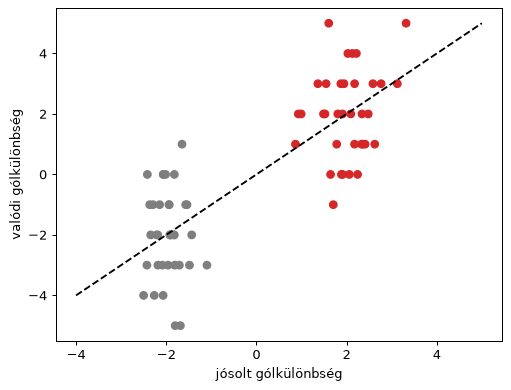
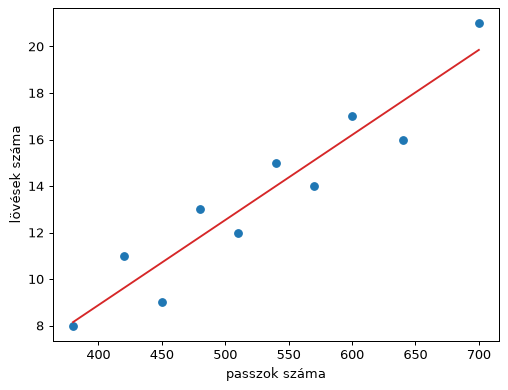
Add clustering_Cw reference values, new regression section
- FELADAT.md: expected clustering_Cw (7.054 +/- 1.591 Barcelona, 2.702 +/- 0.780 rivals)
- PYTHON_VIZ.md: replace match-outcome regression with a mock example and a
  real passes-received example; remove the ideas section

diff --git a/PYTHON_VIZ.md b/PYTHON_VIZ.md
@@ -336,67 +336,96 @@ goal_diff          0.786431       0.710102  0.891549   1.000000
 
 ![ábra](figs/12.png)
 
-## 6. Regresszió: megjósolható-e az eredmény?
+## 6. Regresszió: jóslás a többi adatból
 
-A korreláció azt mondja meg, hogy két mennyiség együtt mozog-e. A regresszió modellt illeszt: a mérőszámokból **megjósolja** a gólkülönbséget. Egy modellt csak olyan adaton szabad kiértékelni, amelyet nem látott, ezért **keresztvalidációt** használunk: a meccseket 5 részre osztjuk, 4 részen tanítunk, az ötödiken tesztelünk, és ezt mind az 5 részre megismételjük. Az `R²` 1 körüli, ha a jóslat jó, 0 körüli, ha nem jobb az átlagnál, és negatív, ha rosszabb.
+A regresszió egyenest (vagy síkot) illeszt az adatokra, és ebből **megjósolja** az egyik mennyiséget a többiből. Először egy kitalált példán nézzük meg, hogyan működik, utána valódi adaton.
+
+### Kitalált példa
+
+Tíz kitalált meccs: hány passz volt, és hány lövés született. Az egyenes: `lövés ≈ meredekség · passz + tengelymetszet`.
 
 ```python
 from sklearn.linear_model import LinearRegression
-from sklearn.model_selection import KFold, cross_val_score, cross_val_predict
-from sklearn.pipeline import make_pipeline
-from sklearn.preprocessing import StandardScaler
+from sklearn.metrics import r2_score
 
-rows = []
-for (mid, team), p in passes.groupby(["match_id", "team"]):          # egy sor = egy csapat egy meccsen
-    w = p.groupby(["player_1", "player_2"]).size().rename("weight").reset_index()
-    G = nx.from_pandas_edgelist(w, "player_1", "player_2", "weight", create_using=nx.DiGraph)
-    rows.append({"match_id": mid, "team": team, "n_passes": len(p), "density": nx.density(G)})
-data = pd.DataFrame(rows).merge(summary[["match_id", "team", "is_barcelona", "goal_diff"]])
-data["is_barcelona"] = data.is_barcelona.astype(int)
+# kitalált adat: 10 meccs, passzok száma és lövések száma
+mock = pd.DataFrame({
+    "passes": [380, 420, 450, 480, 510, 540, 570, 600, 640, 700],
+    "shots":  [  8,  11,   9,  13,  12,  15,  14,  17,  16,  21],
+})
 
-cv = KFold(5, shuffle=True, random_state=0)                           # 5 véletlen részre osztja a meccseket
-for cols in (["n_passes", "density"], ["n_passes", "density", "is_barcelona"]):
-    model = make_pipeline(StandardScaler(), LinearRegression())      # standardizálás: az együtthatók összehasonlíthatók
-    r2 = cross_val_score(model, data[cols], data.goal_diff, cv=cv, scoring="r2")
-    print(cols, "-> R² =", r2.mean().round(2))
+model = LinearRegression()
+model.fit(mock[["passes"]], mock.shots)                     # az X két szögletes zárójellel: táblázat, nem oszlop
 
-model.fit(data[cols], data.goal_diff)
-print(dict(zip(cols, model[-1].coef_.round(2).tolist())))            # melyik mérőszám mennyit számít
+print("meredekség:", model.coef_[0].round(3), " tengelymetszet:", model.intercept_.round(2))
+print("500 passz esetén várt lövés:", model.predict(pd.DataFrame({"passes": [500]}))[0].round(1))
+print("R²:", round(r2_score(mock.shots, model.predict(mock[["passes"]])), 2))
 
-pred = cross_val_predict(model, data[cols], data.goal_diff, cv=cv)    # minden meccsre olyan modell jóslata, amely nem látta
-plt.scatter(pred, data.goal_diff, c=data.is_barcelona.map({1: "tab:red", 0: "tab:gray"}))
-plt.plot([-4, 5], [-4, 5], "k--")                                    # tökéletes jóslat: ezen a vonalon lennének a pontok
-plt.xlabel("jósolt gólkülönbség"); plt.ylabel("valódi gólkülönbség"); plt.show()
+plt.scatter(mock.passes, mock.shots)
+plt.plot(mock.passes, model.predict(mock[["passes"]]), color="tab:red")      # az illesztett egyenes
+plt.xlabel("passzok száma"); plt.ylabel("lövések száma"); plt.show()
 ```
 
 **Eredmény:**
 
 ```text
-['n_passes', 'density'] -> R² = 0.6
-['n_passes', 'density', 'is_barcelona'] -> R² = 0.6
-{'n_passes': 1.07, 'density': -0.42, 'is_barcelona': 1.36}
+meredekség: 0.037  tengelymetszet: -5.75
+500 passz esetén várt lövés: 12.5
+R²: 0.9
 ```
 
 ![ábra](figs/13.png)
 
-**Óvatosan az értelmezéssel:**
-- Az ábrán két felhő van: a piros (Barcelona) fent, a szürke (ellenfelek) lent. A modell nagyrészt azt „tanulta meg”, hogy *melyik csapatról van szó*, nem azt, hogy a passzhálózat mit jelent az eredményre.
-- Próbáljátok ki csak a Barcelona meccseivel (`data[data.is_barcelona == 1]`): ott az `R²` gyenge vagy negatív, vagyis a passzszám és a sűrűség egy csapaton belül alig jósol.
-- Az együtthatók akkor hasonlíthatók össze, ha a mérőszámokat standardizáltuk (ezt a `StandardScaler` teszi).
-- Kevés meccs van (35 Barça-meccs), ezért kevés mérőszámot használjatok, különben a modell túlilleszkedik.
-- A jóslat nem ok-okozat: lehet, hogy a vezető csapat passzol többet, nem fordítva.
+- A **meredekség** azt mondja meg, hogy 1 passzal többhöz átlagosan mennyivel több lövés tartozik (itt 0,037, azaz 100 passzhoz kb. 3,7 lövés).
+- A `predict` egy új értékre ad jóslatot: 500 passznál kb. 12,5 lövést vár.
+- Az **R²** azt mutatja, mennyit magyaráz meg az egyenes: 1 = tökéletes illeszkedés, 0 = nem jobb, mint az átlag.
+- Az `X` két szögletes zárójellel (`mock[["passes"]]`) táblázat, mert több jellemző is lehet. Az `y` egy oszlop.
 
----
+### Valódi példa: ki mennyi passzt kap?
 
-## Ötletek a kísérletezéshez
+A passzhálózatban a csúcs ki-foka (hány passzt adott) és be-foka (hány passzt kapott) összefügg. Meg tudjuk jósolni a **kapott** passzokat az **adott** passzokból és a játékos átlagos helyéből (`avg_x`)? A hibákból az is kiderül, ki kap a vártnál többet vagy kevesebbet.
 
-- Győzelem, döntetlen és vereség esetén más a hálózat? Melyik mérőszám jósolja meg legjobban az eredményt?
-- Hazai és idegenbeli meccsek (`is_home`): változik a centroid vagy a tempó?
-- Real Madrid elleni meccsek (`69259`, `69262`) és a többi összehasonlítása.
-- Hogyan változik a játék gól után (`goals.csv`)? Hogyan reagál a hálózat cserére vagy lapra (`key_events.csv`)?
-- Melyik passztípus vezet lövéshez (`play_pattern`, `pass_type` a `passes_full.csv`-ben)?
-- Mennyire hatékony a lövés (gól/lövés Barçánál és az ellenfeleknél, játékosonként)?
-- Mennyire függ a hálózat Xavitól? Töröljétek a csúcsot (`G.remove_node`), és számoljátok újra a mérőszámokat.
-- Csúszóablak (50 passz) a kiterjesztés feladathoz: `full[...].sort_values(["period", "elapsed_seconds"])`, majd `rolling(50)`.
+```python
+from sklearn.linear_model import LinearRegression
+from sklearn.metrics import r2_score
+from sklearn.model_selection import LeaveOneOut, cross_val_predict
 
+b = players[(players.team == "Barcelona") & (players.passes_attempted >= 100)].reset_index(drop=True)
+X, y = b[["passes_attempted", "avg_x"]], b.passes_received
 
+model = LinearRegression().fit(X, y)
+print("együtthatók:", dict(zip(X.columns, model.coef_.round(2).tolist())))
+
+# minden játékosra olyan modell jóslata, amelyik őt nem látta (egyet kihagyó keresztvalidáció)
+b["pred"] = cross_val_predict(LinearRegression(), X, y, cv=LeaveOneOut())
+b["diff"] = b.passes_received - b.pred
+print("R²:", round(r2_score(y, b.pred), 2))
+print(b.sort_values("diff")[["short_name", "passes_attempted", "passes_received", "pred", "diff"]].round(0).iloc[[0, 1, 2, -3, -2, -1]])
+
+plt.scatter(b.pred, b.passes_received)
+plt.plot([0, 2600], [0, 2600], "k--")
+for _, r in b[b["diff"].abs() > 130].iterrows():                  # csak a legnagyobb eltérések kapnak nevet
+    plt.annotate(r.short_name, (r.pred, r.passes_received), fontsize=8)
+plt.xlabel("jósolt kapott passzok"); plt.ylabel("valódi kapott passzok"); plt.show()
+```
+
+**Eredmény:**
+
+```text
+együtthatók: {'passes_attempted': 0.84, 'avg_x': 10.05}
+R²: 0.94
+        short_name  passes_attempted  passes_received    pred   diff
+5       Dani Alves              2161             1651  1903.0 -252.0
+7          Maxwell              1455             1051  1287.0 -236.0
+13     Éric Abidal              1005              663   858.0 -195.0
+16     Chygrynskiy               692              590   457.0  133.0
+11  Andrés Iniesta              1442             1442  1290.0  152.0
+1     Lionel Messi              1642             1823  1499.0  324.0
+```
+
+![ábra](figs/14.png)
+
+- Az `R²` 0,94: aki sok passzt ad, az sokat is kap, és minél előrébb játszik valaki, annál többet kap ugyanannyi leadott passz mellett (`avg_x`: +1 egység kb. +10 kapott passz).
+- A **leave-one-out** keresztvalidáció minden játékosra olyan modellel jósol, amelyik őt nem látta. Így az `R²` nem a betanított adaton mért, hanem „új” játékosokra érvényes érték.
+- Vigyázat: csak 20 játékos van, és az együtthatók nincsenek standardizálva (az `avg_x` egysége más, mint a passzoké), ezért nem hasonlíthatók össze közvetlenül.
+- Kipróbálható: add hozzá az `avg_y`-t vagy a `pass_accuracy`-t, és nézd meg, változik-e az `R²` és a legnagyobb eltérések listája.

diff --git a/FELADAT.md b/FELADAT.md
@@ -95,6 +95,7 @@ Minden mérőszámot mind a 70 gráfra ki kell számítani.
 | `centroid_dispersion` | 11.529 ± 0.822 | 11.392 ± 1.108 |
 | `advance_ratio` | 1.997 ± 0.159 | 1.332 ± 0.239 |
 | `avg_shortest_path_d` | 0.195 ± 0.031 | 0.467 ± 0.113 |
+| `clustering_Cw` | 7.054 ± 1.591 | 2.702 ± 0.780 |
 | `lambda1_adjacency` | 59.282 ± 11.388 | 23.489 ± 6.614 |
 | `eig_centrality_max` | 0.462 ± 0.035 | 0.472 ± 0.054 |
 | `eig_centrality_dispersion` | 0.112 ± 0.017 | 0.119 ± 0.029 |
